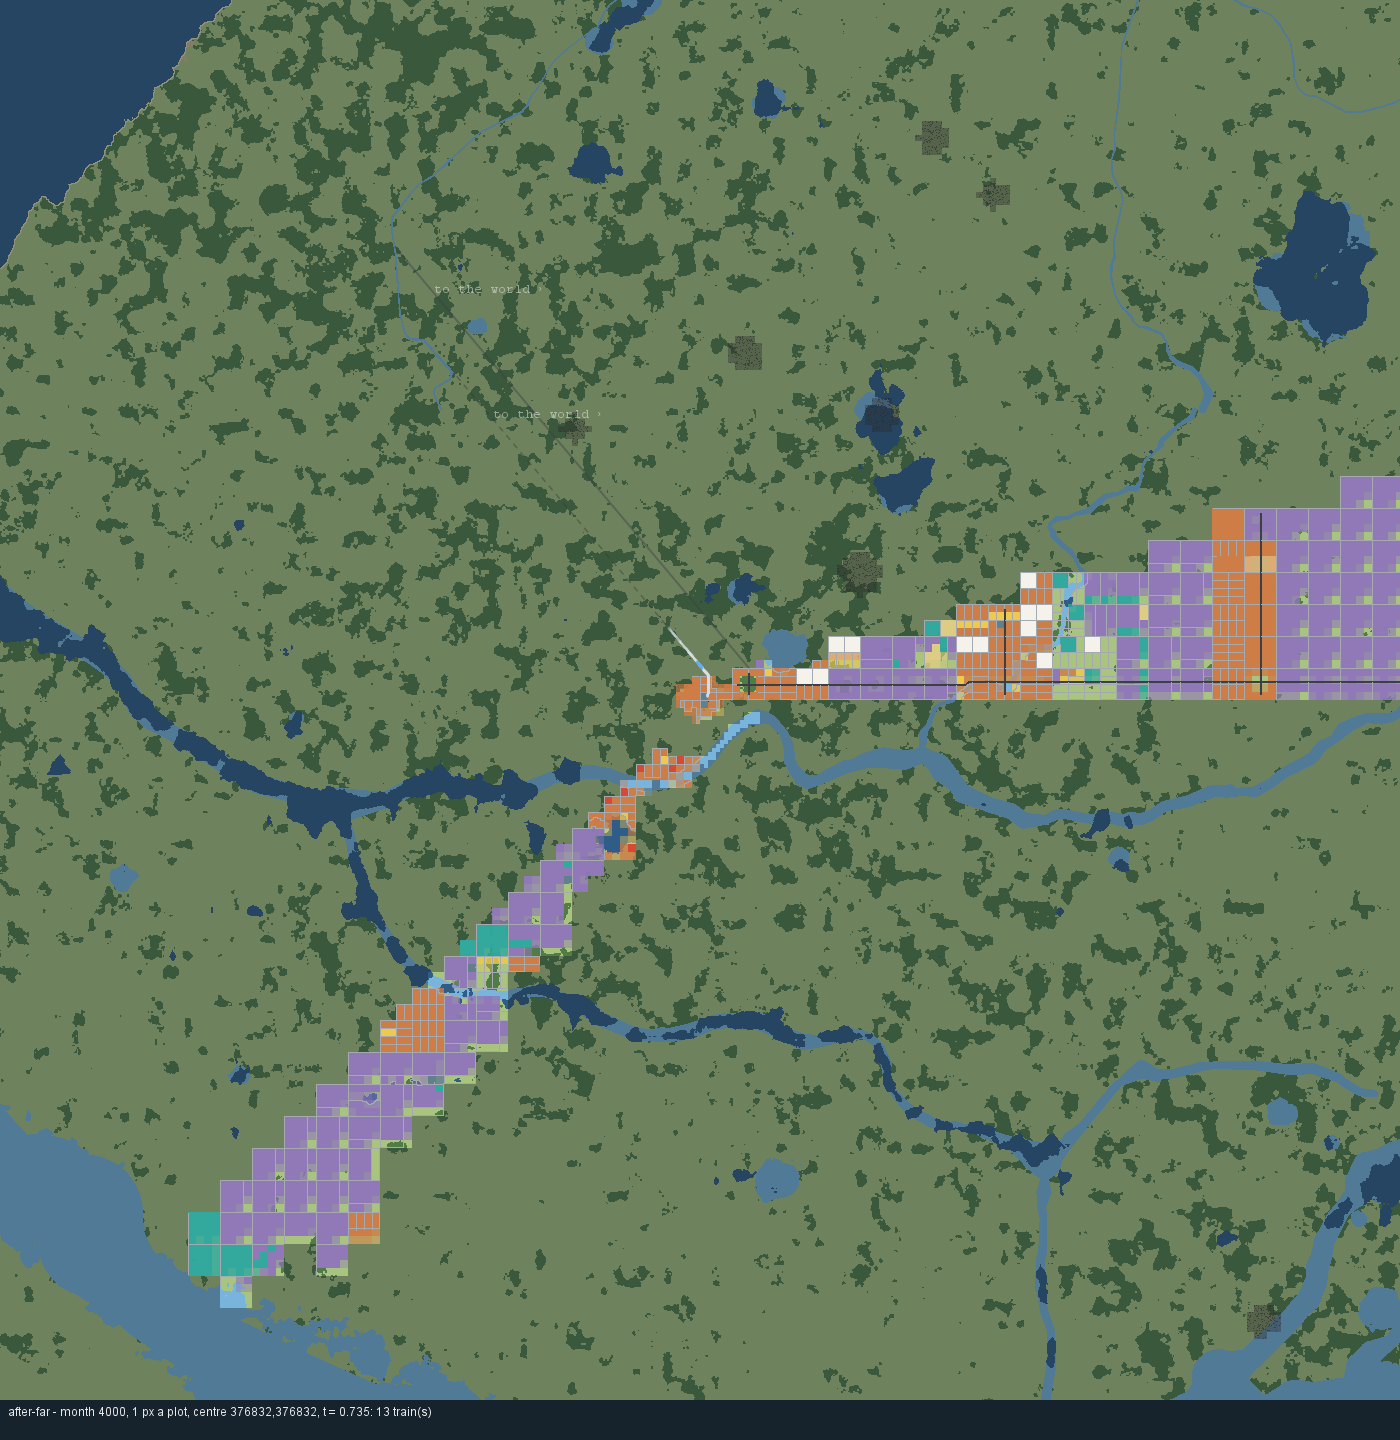
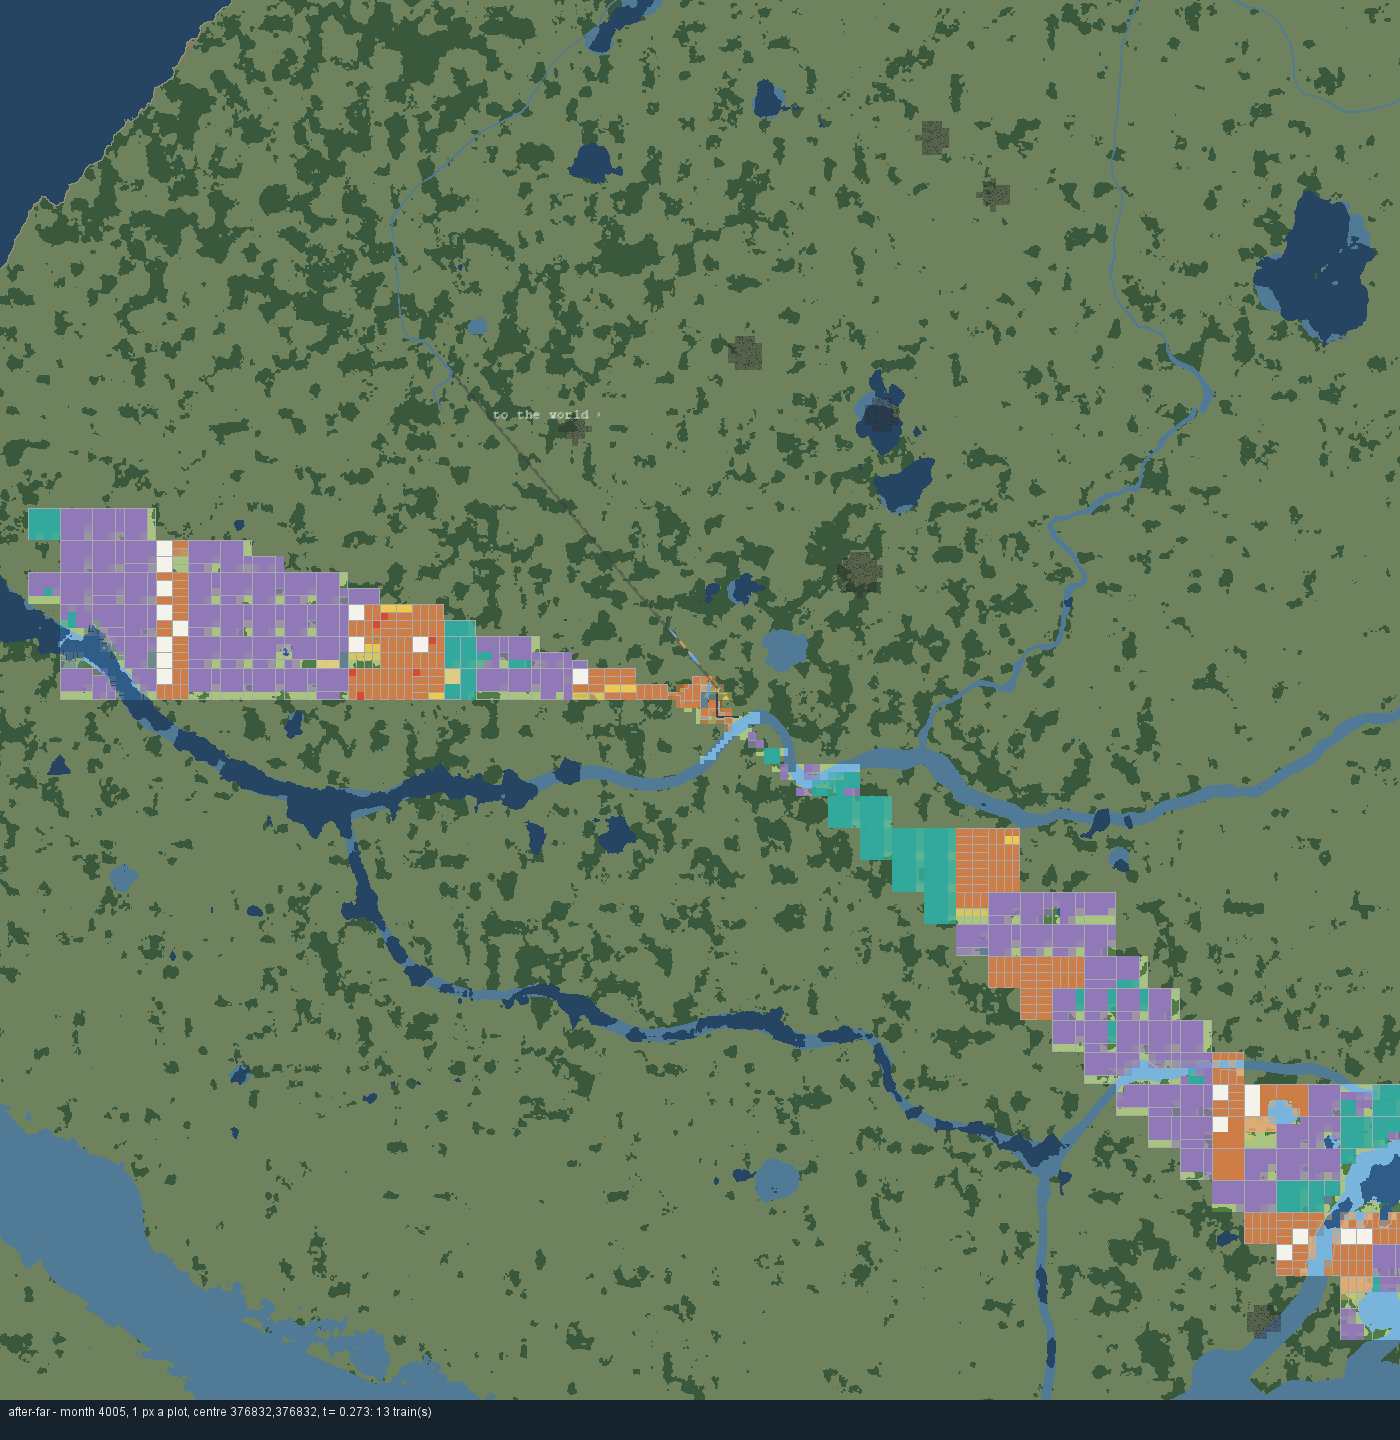
FR7: the after renders on the final tree; RenderFr7 finds a dealt siding's district

Changed region(s): [[0.0, 0.3125, 1.0, 0.9375]]

diff --git a/docs/queue/FR7/RenderFr7.java b/docs/queue/FR7/RenderFr7.java
@@ -19,8 +19,8 @@ import java.util.List;
  * game's own TileRaster through MapTiles, the world lines and the trains
  * drawn over it as ui/MapView draws them. args: saveRoot slot outDir, then
  * windows "name cx cy w h px t": cx cy plots, or "site 0", "station 0",
- * "hub 0" for the founding site, the freight station's box and the rail
- * net's hub, offset by the second figure in plots east (cx) and south (cy)
+ * "hub 0", "siding 0" for the founding site, the freight station's box, the rail
+ * net's hub and the first district dealt a plan's siding, offset by the second figure in plots east (cx) and south (cy)
  * when it is "site 300" and so on; t a month fraction, or -1 for the busiest
  * moment. It prints the city's yards and hub to choose windows by.
  *
@@ -71,6 +71,15 @@ public class RenderFr7 {
             case "site": return m.site()[k];
             case "hub": { long[] h = runs.rail().hub(); return h == null ? m.site()[k] : h[k]; }
             case "station": { long[] y = runs.freightStation(); return y == null ? m.site()[k] : y[k] + y[k + 2] / 2; }
+            case "siding": {
+                // The middle of the first district, in the map's order, the plans' sidings are dealt to (FR7 slice 5).
+                for (CityMap.District d : m.districts()) {
+                    if (m.sidingsOf(d) > 0) {
+                        return ((k == 0 ? m.baseDX() + d.dx : m.baseDY() + d.dy)) * CityMap.DISTRICT + CityMap.DISTRICT / 2;
+                    }
+                }
+                return m.site()[k];
+            }
             default: return Long.parseLong(what);
         }
     }

diff --git a/docs/queue/FR7-notes.md b/docs/queue/FR7-notes.md
@@ -82,7 +82,7 @@ The 16-seed x 5-policy ensemble (`workbench/workbench-delta-20261010.zip`'s runn
 
 `Batch check.bat --maps` on the final tree (3f677a3, FR2's a651649 merged): **116 harnesses run in 882 s, all green** (timing soft: the two ensembles ran beside it), 0 firm Stale findings. Red before FR7 and green on it: nothing - FR2's own reds at 2552755 (CreditCheck, BankCheck, DenominationCheck, ReadPathCheck, ScaleCheck) were FR2's to fix, and its later commits fixed them. Red on the way and fixed: BuildCardCheck (the highway's card, the through row's words), AutoBuildCheck 4 (★10), CarCheck, CentralBankCheck 21 and MapCheck 14 (fixtures the model moved, §7), MapCheck 8 and 9 (the depot as a yard: slice 3), StaleCheck (README's count, the render tool's name). `Batch check.bat --timing`, alone and hard after the ensembles: **8 harnesses run in 142 s, all green**; no budget changed.
 
-**The renders** (`FR7/before-*.png`, `FR7/after-*.png`) are `FR7/RenderFr7.java` (FX2's tool, windows by name) over the Earth playtest's last month, kept with `-Dplaytest.keep`: before on FR2's tip (534,821 people, its 11 spurs drawn as arms from the hub, no yard), after on FR7 (619,719, two Rail Depots on the main line at the hub, its track the main line alone). Each a far view (1 px a plot), the rail hub or freight station at 4 px, and the founding site's streets at 8 px. They were drawn before slice 5 and before FR2's last commits were merged: neither city has a mine standing at its end (`mines 0/0`), so the after city's nine spurs drew no siding there; on the final tree they are dealt to its plans' works. Its two depots stand side by side because no works group lies more than a district from the first. Jerus's own city could not be rendered (§3).
+**The renders** (`FR7/before-*.png`, `FR7/after-*.png`) are `FR7/RenderFr7.java` (FX2's tool, windows by name) over the Earth playtest's last month, kept with `-Dplaytest.keep`: before on FR2's tip at 16d3e37 (534,821 people, its 11 spurs drawn as arms out from the hub, no yard), after on the final tree (752,043 people, two Rail Depots on the main line at the hub, its track the main line alone). Each a far view (1 px a plot), the rail hub or freight station at 4 px, and the founding site's streets at 8 px. The after city has 11 spurs and no mine standing at its end, and the render tool found no district dealt a plan's siding (`CityMap.sidingsOf()`), so no works siding is drawn in it: the brief's near view of a works siding is JunctionCheck 16's and MapCheck 8c's fixtures, not a render (§8). Its two depots stand side by side because no works group lies more than a district from the first. Jerus's own city could not be rendered (§3).
 
 ## 7. The Sonnet slices
 
@@ -100,5 +100,6 @@ The 16-seed x 5-policy ensemble (`workbench/workbench-delta-20261010.zip`'s runn
 - **The access road's reach and ramp** (FR0-L, D17): routed inside its work's district plan, it cannot see a ramp in the next district, and it ends on a ramp the highway already has rather than one of its own; a district whose cells have not opened gives its works none (2 of 8 sea terminals in MapCheck's coast). Its hover is "access road", not the spec's "to the highway at ..., 2.1 km".
 - **The legend's surplus measured on Jerus's city** (the brief's 2.4) and the renders of his city: his save could not be copied here (§3).
 - **The gates' share of the through need** (★9): Jerus's call.
+- **No works siding in the played city's render**: the final Earth city's 11 spurs found no dealt district (§6); why the deal gave none there (its works' districts off the main line's frames, most likely) is worth a look with FR7-C.
 - **The plans' sidings carry no train** (slice 5): the bulk unit trains run only into the runs' sidings at the mined sites. A dealt spur counts as used in the legend even where its plan finds no way in. Past `WAYS_WORKS_DISTRICTS` districts the map lays no sidings or group yards. A yard's branch is re-derived from its box, so a nearer crossing laid later may move it. A loaded old save's extra arms go at its first month, not at the load.
 - **To check by eye (FR7-C)**: the renders in `FR7/`, then in the game: a young city's first Rail Depot on the map, a works' siding, grey gravel beside paved at the near view, a cloverleaf's loops and an access road, and both NEEDS YOU rows in a big city.
